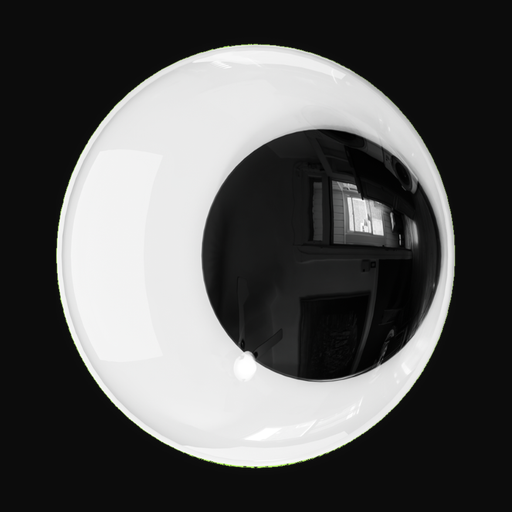
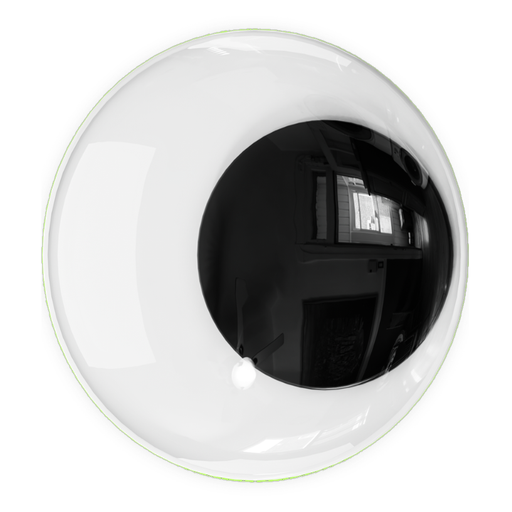
Add files via upload

diff --git a/app/page.js b/app/page.js
@@ -211,37 +211,66 @@ export default function Home() {
 
   useEffect(() => { return useDrag(logosRef) }, [useDrag])
 
-  // Olho flutuante: desloca a imagem dentro do quadro conforme a direção/velocidade do scroll
+  // Olho flutuante: em telas com mouse, ele aponta na direção do cursor (em qualquer
+  // lugar da página, não só quando passa por cima). Em touch (sem mouse), mantém o
+  // efeito de acompanhar a direção do scroll como alternativa.
+  const eyeWrapperRef = useRef(null)
   const eyeImgRef = useRef(null)
+  const usingMouseRef = useRef(false)
+
   useEffect(() => {
+    const MAX_SHIFT = 11 // px — limite pra não "vazar" da moldura circular
+
+    const setShift = (shiftX, shiftY) => {
+      const el = eyeImgRef.current
+      if (!el) return
+      el.style.setProperty('--eye-shift-x', `${shiftX}px`)
+      el.style.setProperty('--eye-shift-y', `${shiftY}px`)
+    }
+
+    const pointAt = (clientX, clientY) => {
+      const wrapper = eyeWrapperRef.current
+      if (!wrapper) return
+      const rect = wrapper.getBoundingClientRect()
+      const cx = rect.left + rect.width / 2
+      const cy = rect.top + rect.height / 2
+      const angle = Math.atan2(clientY - cy, clientX - cx)
+      setShift(Math.cos(angle) * MAX_SHIFT, Math.sin(angle) * MAX_SHIFT)
+    }
+
+    const onMouseMove = (e) => {
+      usingMouseRef.current = true
+      pointAt(e.clientX, e.clientY)
+    }
+    const onTouchMove = (e) => {
+      const t = e.touches?.[0]
+      if (t) pointAt(t.clientX, t.clientY)
+    }
+
+    // Fallback pra scroll (só entra em ação se nunca detectarmos um mouse real)
     let lastY = window.scrollY
     let resetTimer = null
-    const MAX_SHIFT = 11 // px — limite pra não "vazar" da moldura circular
     const onScroll = () => {
       setScrolled(window.scrollY > 60)
+      if (usingMouseRef.current) return // já tem mouse guiando o olho, não interfere
 
       const currentY = window.scrollY
       const delta = currentY - lastY
       lastY = currentY
 
-      const el = eyeImgRef.current
-      if (el) {
-        const shiftY = Math.max(-MAX_SHIFT, Math.min(MAX_SHIFT, delta * 0.9))
-        el.style.setProperty('--eye-shift-y', `${shiftY}px`)
-        el.style.setProperty('--eye-shift-x', `${shiftY * 0.35}px`)
-      }
+      const shiftY = Math.max(-MAX_SHIFT, Math.min(MAX_SHIFT, delta * 0.9))
+      setShift(shiftY * 0.35, shiftY)
 
       if (resetTimer) clearTimeout(resetTimer)
-      resetTimer = setTimeout(() => {
-        const el2 = eyeImgRef.current
-        if (el2) {
-          el2.style.setProperty('--eye-shift-y', '0px')
-          el2.style.setProperty('--eye-shift-x', '0px')
-        }
-      }, 350)
+      resetTimer = setTimeout(() => setShift(0, 0), 350)
     }
+
+    window.addEventListener('mousemove', onMouseMove, { passive: true })
+    window.addEventListener('touchmove', onTouchMove, { passive: true })
     window.addEventListener('scroll', onScroll, { passive: true })
     return () => {
+      window.removeEventListener('mousemove', onMouseMove)
+      window.removeEventListener('touchmove', onTouchMove)
       window.removeEventListener('scroll', onScroll)
       if (resetTimer) clearTimeout(resetTimer)
     }
@@ -890,7 +919,7 @@ export default function Home() {
       </footer>
 
       {/* Olho flutuante que acompanha o scroll */}
-      <div className="eye-follower" aria-hidden="true">
+      <div ref={eyeWrapperRef} className="eye-follower" aria-hidden="true">
         <Image ref={eyeImgRef} src="/logos/eye-icon.png" alt="" width={98} height={98} />
       </div>
     </>

diff --git a/app/globals.css b/app/globals.css
@@ -161,7 +161,7 @@ body {
   left: 50%;
   top: 50%;
   transform: translate(-50%, -50%) translateY(var(--eye-shift-y, 0px)) translateX(var(--eye-shift-x, 0px));
-  transition: transform 0.5s cubic-bezier(0.16, 1, 0.3, 1);
+  transition: transform 0.18s ease-out;
   object-fit: contain;
 }
 @media (min-width: 768px) {
